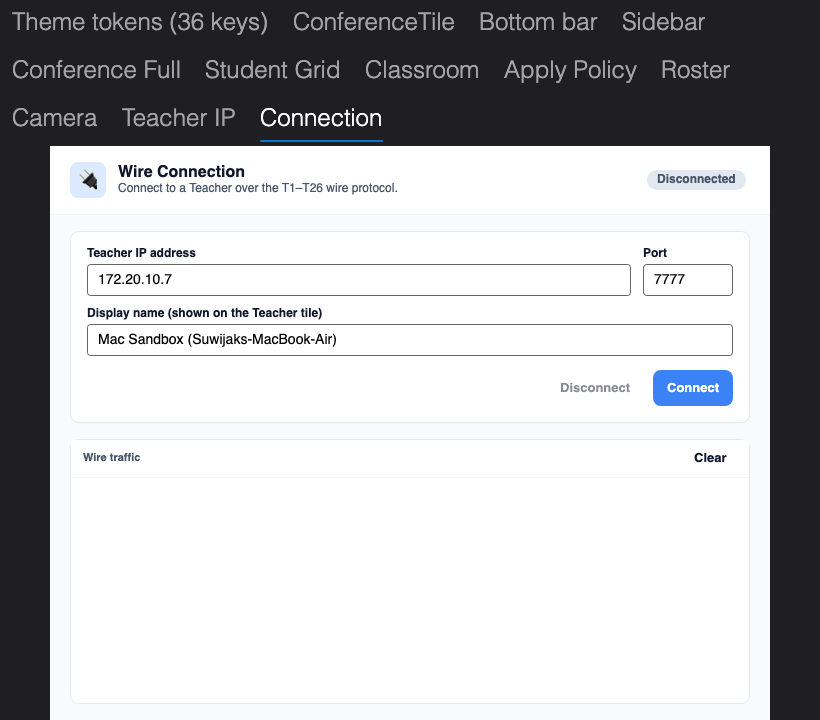
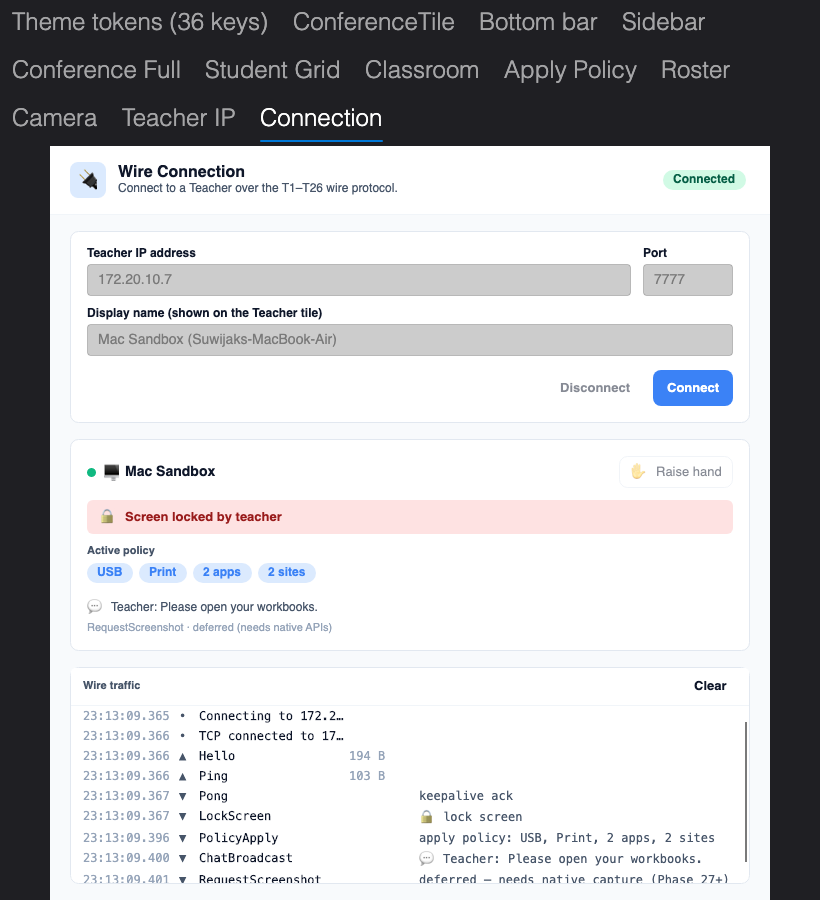
Phase 26.0-C: command reception + debug display
Dispatches inbound Teacher commands and reflects them in the UI (no enforcement).

- ConnectionViewModel.Dispatch: decodes each RX envelope → a decoded summary in
  the wire-traffic log AND a state mutation on the self-tile. Lock/Unlock,
  PolicyApply/Revert (chips), Chat (log-only), HandRaise/Lower; capture-class
  commands (screenshot/stream/camera) logged + noted as deferred (Phase 27+).
- StudentSelfTileViewModel ("how the Teacher sees me"): online dot, lock banner,
  policy chips, hand-raise, last chat, deferred note.
- Bonus S→T: "Raise hand" send button toggles + emits HandRaise/HandLower.
- WireClient: RX no longer double-logged in transport; the subscriber logs it
  with the decoded summary (LastRxSize exposes the frame size).
- HeadlessCapture 'connection' scenario seeds a representative connected session
  so the reflection + decoded log are captured (docs/phase-26.0-connection.png).

Verified: SELFTEST still PASS.

diff --git a/src/ClassroomCtrl.Avalonia.Sandbox/ViewModels/ConnectionViewModel.cs b/src/ClassroomCtrl.Avalonia.Sandbox/ViewModels/ConnectionViewModel.cs
@@ -1,4 +1,5 @@
 using System;
+using System.Collections.Generic;
 using System.Collections.ObjectModel;
 using System.Threading;
 using System.Threading.Tasks;
@@ -7,6 +8,7 @@ using ClassroomCtrl.Avalonia.Sandbox.Services;
 using ClassroomCtrl.Shared.Protocol;
 using CommunityToolkit.Mvvm.ComponentModel;
 using CommunityToolkit.Mvvm.Input;
+using MessagePack;
 
 namespace ClassroomCtrl.Avalonia.Sandbox.ViewModels;
 
@@ -34,6 +36,9 @@ public partial class ConnectionViewModel : ObservableObject
     private const int MaxLogRows = 500;
 
     public WireClient Client { get; } = new();
+
+    /// <summary>Reflects the state Teacher commands drive onto this student.</summary>
+    public StudentSelfTileViewModel SelfTile { get; } = new();
 
     private CancellationTokenSource? _cts;
 
@@ -80,11 +85,100 @@ public partial class ConnectionViewModel : ObservableObject
         Client.StatusChanged += s => Post(() =>
         {
             Status = s;
+            SelfTile.IsOnline = s == WireStatus.Connected;
+            SelfTile.DisplayName = DisplayName;
+            if (s == WireStatus.Disconnected) SelfTile.Reset();
             ConnectCommand.NotifyCanExecuteChanged();
             DisconnectCommand.NotifyCanExecuteChanged();
+            RaiseHandCommand.NotifyCanExecuteChanged();
         });
         Client.Traffic += (dir, label, size) => Post(() => AddLog(dir, label, size));
-        // EnvelopeReceived reflection is wired in Phase 26.0-C.
+        Client.EnvelopeReceived += env => Post(() => Dispatch(env));
+    }
+
+    /// <summary>Decode an inbound envelope: enrich the traffic log with a summary
+    /// and reflect the command onto <see cref="SelfTile"/>. No enforcement.
+    /// Public so HeadlessCapture can seed a representative state deterministically.</summary>
+    public void Dispatch(Envelope env)
+    {
+        string detail;
+        switch (env.Type)
+        {
+            case MessageType.Pong:
+                detail = "keepalive ack";
+                break;
+            case MessageType.LockScreen:
+                SelfTile.IsLocked = true;
+                detail = "🔒 lock screen";
+                break;
+            case MessageType.UnlockScreen:
+                SelfTile.IsLocked = false;
+                detail = "🔓 unlock screen";
+                break;
+            case MessageType.PolicyApply:
+                detail = ApplyPolicy(env.Payload);
+                break;
+            case MessageType.PolicyRevert:
+                SelfTile.SetPolicy(Array.Empty<string>());
+                detail = "revert policy";
+                break;
+            case MessageType.ChatBroadcast:
+            case MessageType.ChatDirect:
+            case MessageType.ChatRoom:
+                detail = ApplyChat(env.Payload);
+                break;
+            case MessageType.HandRaise:
+                SelfTile.IsHandRaised = true;
+                detail = "hand raised";
+                break;
+            case MessageType.HandLower:
+                SelfTile.IsHandRaised = false;
+                detail = "hand lowered";
+                break;
+            // Capture-class commands: logged + noted, deferred until native macOS
+            // APIs land (Phase 27+). No frames are produced.
+            case MessageType.RequestScreenshot:
+            case MessageType.ScreenStreamStart:
+            case MessageType.StudentStreamStart:
+            case MessageType.CameraStart:
+            case MessageType.ConferenceStart:
+            case MessageType.MicMonitorStart:
+                detail = "deferred — needs native capture (Phase 27+)";
+                SelfTile.LastDeferred = $"{env.Type} · deferred (needs native APIs)";
+                break;
+            default:
+                detail = "";
+                break;
+        }
+        AddLog(WireDirection.Rx, env.Type.ToString(), Client.LastRxSize, detail);
+    }
+
+    private string ApplyPolicy(byte[] payload)
+    {
+        try
+        {
+            var p = MessagePackSerializer.Deserialize<PolicyApplyMessage>(payload);
+            var chips = new List<string>();
+            if (p.BlockUsbStorage) chips.Add("USB");
+            if (p.BlockOpticalDrive) chips.Add("CD/DVD");
+            if (p.BlockPrinting) chips.Add("Print");
+            if (p.BlockedProcessNames.Count > 0) chips.Add($"{p.BlockedProcessNames.Count} apps");
+            if (p.BlockedHostnames.Count > 0) chips.Add($"{p.BlockedHostnames.Count} sites");
+            SelfTile.SetPolicy(chips);
+            return chips.Count == 0 ? "apply policy (none)" : "apply policy: " + string.Join(", ", chips);
+        }
+        catch (Exception ex) { return $"policy decode failed: {ex.Message}"; }
+    }
+
+    private string ApplyChat(byte[] payload)
+    {
+        try
+        {
+            var c = MessagePackSerializer.Deserialize<ClassroomCtrl.Shared.Protocol.ChatMessage>(payload);
+            SelfTile.LastChat = $"{c.SenderName}: {c.Text}";
+            return $"💬 {c.SenderName}: {c.Text}";
+        }
+        catch (Exception ex) { return $"chat decode failed: {ex.Message}"; }
     }
 
     private bool CanConnect() => Status == WireStatus.Disconnected;
@@ -113,6 +207,28 @@ public partial class ConnectionViewModel : ObservableObject
 
     [RelayCommand(CanExecute = nameof(CanDisconnect))]
     private void Disconnect() => _cts?.Cancel();
+
+    private bool CanRaiseHand() => Status == WireStatus.Connected;
+
+    /// <summary>Bonus S→T: toggle + send a HandRaise so the Teacher tile lights up.</summary>
+    [RelayCommand(CanExecute = nameof(CanRaiseHand))]
+    private async Task RaiseHand()
+    {
+        var raise = !SelfTile.IsHandRaised;
+        SelfTile.IsHandRaised = raise;
+        var msg = new HandRaiseMessage
+        {
+            StudentId = Client.EndpointId,
+            StudentName = DisplayName,
+            IsRaised = raise,
+        };
+        try
+        {
+            await Client.SendAsync(raise ? MessageType.HandRaise : MessageType.HandLower,
+                                   MessagePackSerializer.Serialize(msg), CancellationToken.None);
+        }
+        catch (Exception ex) { AddLog(WireDirection.System, $"hand-raise send failed: {ex.Message}", 0); }
+    }
 
     [RelayCommand]
     private void ClearLog() => Log.Clear();

diff --git a/tools/HeadlessCapture/Scenarios.cs b/tools/HeadlessCapture/Scenarios.cs
@@ -1,7 +1,10 @@
 using Avalonia.Controls;
 using Avalonia.Threading;
 using ClassroomCtrl.Avalonia.Sandbox;
+using ClassroomCtrl.Avalonia.Sandbox.Services;
 using ClassroomCtrl.Avalonia.Sandbox.ViewModels;
+using ClassroomCtrl.Shared.Protocol;
+using MessagePack;
 
 namespace HeadlessCapture;
 
@@ -114,13 +117,44 @@ public static class Scenarios
 
         ["connection"] = new()
         {
-            Description = "Phase 26.0 Connection tab — wire-connect form (IP/port/name) + status "
-                        + "pill + live wire-traffic log. ClassroomLightTheme + design system — Sandbox tab 11.",
+            Description = "Phase 26.0 Connection tab — wire-connect form + status pill + "
+                        + "'how the Teacher sees me' self-tile + live wire-traffic log. Seeded with "
+                        + "a representative connected session (Hello/Ping TX, Lock/Policy/Chat RX) so "
+                        + "the reflection + decoded log are visible — Sandbox tab 11.",
             OriginalPhase = "26.0",
             OriginalScreenshot = "docs/phase-26.0-connection.png",
-            Width = 820, Height = 720,
+            Width = 820, Height = 900,
             BuildWindow = () => new MainWindow(),
-            AfterShow = w => CaptureRunner.SelectTab(w, 11),
+            AfterShow = w =>
+            {
+                CaptureRunner.SelectTab(w, 11);
+                if (w.DataContext is not MainWindowViewModel mvm) return;
+                var c = mvm.Connection;
+                var teacher = System.Guid.NewGuid();
+
+                // Seed a representative CONNECTED session deterministically (no socket):
+                // status pill green + self-tile reflection + decoded traffic log.
+                c.Status = WireStatus.Connected;
+                c.SelfTile.IsOnline = true;
+                c.AddLog(WireDirection.System, "Connecting to 172.20.10.7:7777 …", 0);
+                c.AddLog(WireDirection.System, "TCP connected to 172.20.10.7:7777", 0);
+                c.AddLog(WireDirection.Tx, "Hello", 194);
+                c.AddLog(WireDirection.Tx, "Ping", 103);
+                c.Dispatch(Envelope.Create(MessageType.Pong, System.Array.Empty<byte>(), teacher));
+                c.Dispatch(Envelope.Create(MessageType.LockScreen, System.Array.Empty<byte>(), teacher));
+                var policy = new PolicyApplyMessage
+                {
+                    BlockUsbStorage = true, BlockPrinting = true,
+                    BlockedProcessNames = new() { "chrome.exe", "game.exe" },
+                    BlockedHostnames = new() { "facebook.com", "tiktok.com" },
+                };
+                c.Dispatch(Envelope.Create(MessageType.PolicyApply, MessagePackSerializer.Serialize(policy), teacher));
+                var chat = new ClassroomCtrl.Shared.Protocol.ChatMessage
+                { SenderName = "Teacher", Text = "Please open your workbooks.", TimestampUtcMs = 0 };
+                c.Dispatch(Envelope.Create(MessageType.ChatBroadcast, MessagePackSerializer.Serialize(chat), teacher));
+                c.Dispatch(Envelope.Create(MessageType.RequestScreenshot, System.Array.Empty<byte>(), teacher));
+                Dispatcher.UIThread.RunJobs();
+            },
         },
 
         ["classroom"] = new()

diff --git a/src/ClassroomCtrl.Avalonia.Sandbox/ViewModels/StudentSelfTileViewModel.cs b/src/ClassroomCtrl.Avalonia.Sandbox/ViewModels/StudentSelfTileViewModel.cs
@@ -1,0 +1,46 @@
+using System.Collections.ObjectModel;
+using CommunityToolkit.Mvvm.ComponentModel;
+
+namespace ClassroomCtrl.Avalonia.Sandbox.ViewModels;
+
+/// <summary>
+/// Phase 26.0-C — "how the Teacher sees me." Reflects the state that inbound
+/// Teacher commands drive onto this student: lock overlay, applied policy chips,
+/// hand-raise, last chat, and a note for capture commands that are deferred until
+/// the native macOS APIs land (Phase 27+). No enforcement — reflection only.
+/// </summary>
+public partial class StudentSelfTileViewModel : ObservableObject
+{
+    [ObservableProperty] private string displayName = "Mac Sandbox";
+    [ObservableProperty] private bool isOnline;
+
+    [ObservableProperty] private bool isLocked;
+
+    [ObservableProperty] private bool policyActive;
+    public ObservableCollection<string> PolicyChips { get; } = new();
+
+    [ObservableProperty] private bool isHandRaised;
+
+    [ObservableProperty] private string lastChat = "";
+
+    /// <summary>Most recent command that needs native capture APIs (screenshot /
+    /// screen stream / camera) — logged + shown, not enforced.</summary>
+    [ObservableProperty] private string lastDeferred = "";
+
+    public void Reset()
+    {
+        IsLocked = false;
+        PolicyActive = false;
+        PolicyChips.Clear();
+        IsHandRaised = false;
+        LastChat = "";
+        LastDeferred = "";
+    }
+
+    public void SetPolicy(System.Collections.Generic.IEnumerable<string> chips)
+    {
+        PolicyChips.Clear();
+        foreach (var c in chips) PolicyChips.Add(c);
+        PolicyActive = PolicyChips.Count > 0;
+    }
+}

diff --git a/src/ClassroomCtrl.Avalonia.Sandbox/Services/WireClient.cs b/src/ClassroomCtrl.Avalonia.Sandbox/Services/WireClient.cs
@@ -51,6 +51,10 @@ public sealed class WireClient
     /// <summary>Raised per decoded inbound envelope (for dispatch/reflection, 26.0-C).</summary>
     public event Action<Envelope>? EnvelopeReceived;
 
+    /// <summary>Full frame size (incl. 4-byte length prefix) of the most recent RX
+    /// envelope — lets the EnvelopeReceived subscriber log an accurate byte count.</summary>
+    public int LastRxSize { get; private set; }
+
     private NetworkStream? _stream;
     private readonly object _sendLock = new();
 
@@ -167,7 +171,9 @@ public sealed class WireClient
             try { env = Envelope.Deserialize(body); }
             catch (Exception ex) { Log(WireDirection.System, $"Undecodable frame ({len} B): {ex.Message}"); continue; }
 
-            Log(WireDirection.Rx, env.Type.ToString(), len + 4);
+            // RX frames are logged by the subscriber (with a decoded summary) via
+            // EnvelopeReceived; the transport doesn't double-log them here.
+            LastRxSize = len + 4;
             EnvelopeReceived?.Invoke(env);
         }
     }

diff --git a/tools/MockTeacher/Program.cs b/tools/MockTeacher/Program.cs
@@ -236,6 +236,7 @@ static class SelfTest
         client.EnvelopeReceived += env =>
         {
             received.Add(env.Type);
+            Console.WriteLine($"  [Rx] {env.Type} ({env.Payload.Length} B payload)");
             if (env.Type == MessageType.LockScreen) lockSeen.TrySetResult();
             if (env.Type == MessageType.PolicyApply) policySeen.TrySetResult();
             if (env.Type == MessageType.ChatBroadcast) chatSeen.TrySetResult();
